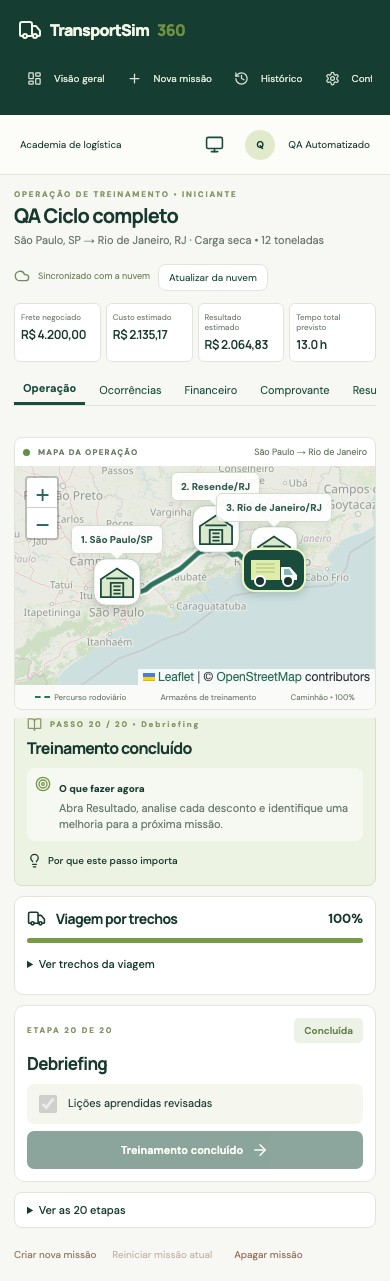
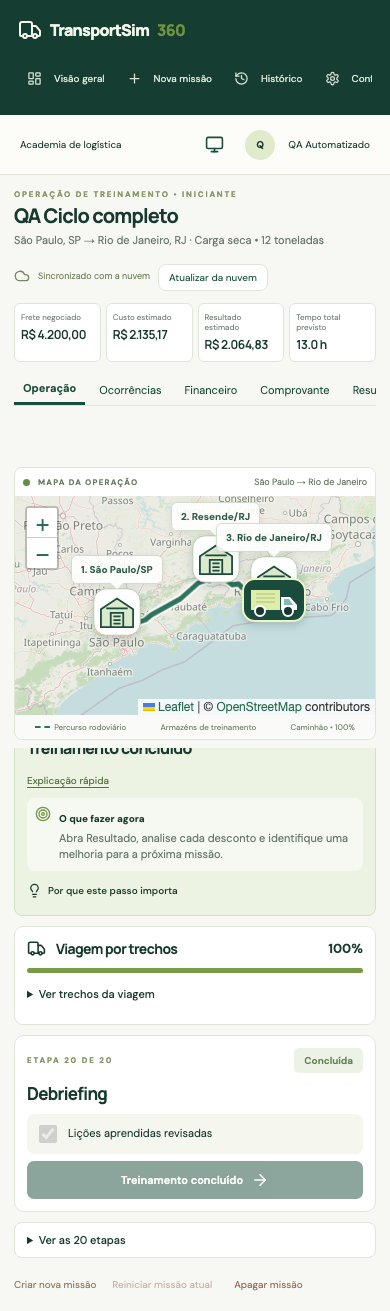
feat: show brief auto dismissing explanations for operation stages

diff --git a/src/pages/workspace/Operation.tsx b/src/pages/workspace/Operation.tsx
@@ -1,3 +1,7 @@
+import {
+  StageNotice,
+  type StageNoticeData,
+} from "../../components/StageNotice";
 import { missionProgress } from "../../domain/mission";
 import { RoutePlanner } from "../../components/RoutePlanner";
 import { StageGuide } from "../../components/StageGuide";
@@ -9,7 +13,7 @@ import {
   Cloud,
   Download,
 } from "lucide-react";
-import { useState, useEffect, useRef } from "react";
+import { useState, useEffect, useRef, useCallback } from "react";
 import {
   Link,
   useLocation,
@@ -45,6 +49,8 @@ export function Operation() {
   const { mission, busy, sync, pending, load, save, clearDraft } =
     useMissionSync(user?.uid, id, setMessage);
   const [showPlanner, setShowPlanner] = useState(false);
+  const [notice, setNotice] = useState<StageNoticeData | null>(null);
+  const closeNotice = useCallback(() => setNotice(null), []);
   const [lastCompleted, setLastCompleted] = useState("");
   const controlColumn = useRef<HTMLElement>(null);
   useEffect(() => {
@@ -67,8 +73,16 @@ export function Operation() {
   const result = score(m);
   function transition() {
     try {
-      void save(advance(m)).then((success) => {
-        if (success) setLastCompleted(stages[m.step]);
+      const next = advance(m);
+      void save(next).then((success) => {
+        if (success) {
+          setLastCompleted(stages[m.step]);
+          setNotice({
+            id: Date.now(),
+            step: next.step,
+            completed: next.completed,
+          });
+        }
       });
     } catch (e) {
       setMessage(errorMessage(e));
@@ -93,6 +107,7 @@ export function Operation() {
   }
   return (
     <div className="operation-page">
+      <StageNotice notice={notice} onClose={closeNotice} />
       <div className="page-heading">
         <div>
           <span className="eyebrow">
@@ -202,6 +217,13 @@ export function Operation() {
               step={m.step}
               completed={m.completed}
               lastCompleted={lastCompleted}
+              onExplain={() =>
+                setNotice({
+                  id: Date.now(),
+                  step: m.step,
+                  completed: m.completed,
+                })
+              }
             />
             <JourneyControls
               mission={m}

diff --git a/src/styles/global.css b/src/styles/global.css
@@ -2035,3 +2035,96 @@ summary {
     height: clamp(170px, 26dvh, 230px);
   }
 }
+.stage-notice {
+  position: fixed;
+  top: 14px;
+  left: 50%;
+  transform: translateX(-50%);
+  z-index: 2000;
+  display: flex;
+  align-items: flex-start;
+  gap: 11px;
+  width: min(430px, calc(100vw - 28px));
+  padding: 14px 15px 17px;
+  background: #f6faed;
+  border: 1px solid #afc98a;
+  border-radius: 10px;
+  box-shadow: 0 10px 35px #18392f26;
+  color: #194c3c;
+  overflow: hidden;
+  animation: notice-in 0.18s ease-out;
+}
+.stage-notice > svg {
+  flex-shrink: 0;
+  margin-top: 1px;
+}
+.stage-notice > div {
+  min-width: 0;
+  flex: 1;
+}
+.stage-notice strong {
+  font-size: 13px;
+}
+.stage-notice p {
+  font-size: 12px;
+  line-height: 1.5;
+  margin: 5px 0 0;
+  color: #4b6553;
+}
+.stage-notice > button {
+  display: flex;
+  flex-shrink: 0;
+  padding: 3px;
+  border: 0;
+  background: transparent;
+}
+.stage-notice-timer {
+  position: absolute;
+  bottom: 0;
+  left: 0;
+  height: 3px;
+  background: #8bad58;
+  width: 100%;
+  transform-origin: left;
+  animation: notice-timer 5s linear forwards;
+}
+.stage-explain-button {
+  padding: 4px 0;
+  border: 0;
+  background: transparent;
+  font-size: 10px;
+  text-decoration: underline;
+  text-underline-offset: 3px;
+  margin: 0 0 7px;
+  color: #54733f;
+}
+.stage-explain-button:hover {
+  color: #194c3c;
+}
+@keyframes notice-timer {
+  to {
+    transform: scaleX(0);
+  }
+}
+@keyframes notice-in {
+  from {
+    opacity: 0;
+    transform: translate(-50%, -8px);
+  }
+  to {
+    opacity: 1;
+    transform: translate(-50%, 0);
+  }
+}
+@media (prefers-reduced-motion: reduce) {
+  .stage-notice,
+  .stage-notice-timer {
+    animation: none;
+  }
+}
+@media print {
+  .stage-notice,
+  .stage-explain-button {
+    display: none;
+  }
+}

diff --git a/src/components/StageNotice.tsx b/src/components/StageNotice.tsx
@@ -1,0 +1,51 @@
+import { useEffect } from "react";
+import { Info, X } from "lucide-react";
+import { stages } from "../domain/mission";
+import { stageGuidance } from "../domain/stageGuidance";
+export interface StageNoticeData {
+  id: number;
+  step: number;
+  completed: boolean;
+}
+export function StageNotice({
+  notice,
+  onClose,
+}: {
+  notice: StageNoticeData | null;
+  onClose: () => void;
+}) {
+  useEffect(() => {
+    if (!notice) return;
+    const timer = window.setTimeout(onClose, 5000);
+    return () => window.clearTimeout(timer);
+  }, [notice, onClose]);
+  if (!notice) return null;
+  return (
+    <div
+      className="stage-notice"
+      role="status"
+      aria-live="polite"
+      aria-atomic="true"
+    >
+      <Info size={21} />
+      <div>
+        <strong>
+          {notice.completed ? "Treinamento concluído" : stages[notice.step]}
+        </strong>
+        <p>
+          {notice.completed
+            ? "Seu resultado foi salvo. Consulte o relatório para revisar as decisões e os aprendizados."
+            : stageGuidance[notice.step][1]}
+        </p>
+      </div>
+      <button
+        type="button"
+        aria-label="Fechar explicação da etapa"
+        onClick={onClose}
+      >
+        <X size={17} />
+      </button>
+      <span className="stage-notice-timer" key={notice.id} />
+    </div>
+  );
+}

diff --git a/src/components/StageGuide.tsx b/src/components/StageGuide.tsx
@@ -5,10 +5,12 @@ export function StageGuide({
   step,
   completed,
   lastCompleted,
+  onExplain,
 }: {
   step: number;
   completed: boolean;
   lastCompleted: string;
+  onExplain: () => void;
 }) {
   const [title, action, impact] = stageGuidance[step];
   return (
@@ -23,6 +25,13 @@ export function StageGuide({
         <BookOpen size={15} /> PASSO {step + 1} / 20 • {stages[step]}
       </span>
       <h2>{completed ? "Treinamento concluído" : title}</h2>
+      <button
+        type="button"
+        className="stage-explain-button"
+        onClick={onExplain}
+      >
+        Explicação rápida
+      </button>
       <div className="guide-cards">
         <article>
           <Target size={20} />

diff --git a/docs/DESIGN_SYSTEM.md b/docs/DESIGN_SYSTEM.md
@@ -5,3 +5,5 @@ Paleta: verde floresta #194c3c, verde claro #daeea5, fundo #f7f8f3. Tipografia M
 Layout responsivo em 1100/800/550 px, formulários de três a uma coluna, navegação móvel horizontal. Foco visível, labels nos campos e botões com estados de carregamento. Modo apresentação oculta navegação e amplia números. Impressão do POD remove controles. Fontes externas são opcionais; o fallback mantém o conteúdo legível.
 
 Painel operacional compacto: indicadores menores, mapa em coluna fixa e controles em coluna lateral com rolagem própria no desktop. Explicação complementar, trechos e timeline ficam recolhidos por padrão. No celular, mapa sticky no topo enquanto os controles rolam. Orientação e checklist continuam disponíveis. Ao mudar de etapa, a coluna de controles retorna ao início.
+
+Explicação transitória de etapa: aviso informativo discreto no topo, sem modal ou bloqueio. Aparece após avanço salvo e desaparece após 5 segundos. O botão Explicação rápida reabre a informação; X fecha imediatamente. Timer substituído a cada aviso, aria-live polite e animação respeitando preferência por movimento reduzido. Estado apenas de interface, sem gravações adicionais.

diff --git a/docs/TEST_PLAN.md b/docs/TEST_PLAN.md
@@ -33,3 +33,5 @@ Teste Chrome com APIs reais e Firebase aprovado: seleção de RJ/Resende via IBG
 Fluxo completo Chrome/Firebase real aprovado após a revisão: movimento gradual nas quatro etapas, vinte checklists, inspeção antes da continuação, resultado/histórico e perfil sem Firebase/Authentication/UID. Conta e dados sintéticos removidos. Capturas em docs/qa/travel-stage-9.png e travel-stage-12.png.
 
 Layout compacto validado em Chrome 1366×768 e 390×844: fluxo completo e checagens geométricas confirmaram que o canvas do mapa permanece dentro da viewport ao avançar a viagem no desktop e ao rolar até o checklist no celular. Build TypeScript/Vite aprovado. Não houve mudança de cálculos ou regras de negócio. Conta e documentos temporários removidos.
+
+Explicação temporária validada no Chrome: aparece após cada avanço salvo, desaparece automaticamente (checagem com timeout de 7 segundos para timer de 5), reabre por Explicação rápida e fecha pelo X. Fluxo completo, perfil, mapa visível e limpeza dos dados de QA aprovados. Build TypeScript/Vite aprovado.

diff --git a/docs/DEPLOY_VERCEL.md b/docs/DEPLOY_VERCEL.md
@@ -27,3 +27,5 @@ Toolbar removida no projeto por API oficial Vercel: enablePreviewFeedback=false 
 Revisão de movimento por etapas e perfil publicada READY em 15/10/2026: https://geevheitacademy-iaewjw3jl-geevheits-projects.vercel.app . Deployment dpl_J6QKPd8P8pm215PhjW3zr6FAeKn1. Toolbar desligada no projeto para preview/produção. Build remoto aprovado.
 
 Layout operacional compacto publicado READY em 15/10/2026: https://geevheitacademy-21ulx82ax-geevheits-projects.vercel.app . Deployment dpl_9KXCq7RHx33Ewg1Cqj9tdnQDBt1u. Build remoto aprovado.
+
+Explicações transitórias de etapa publicadas READY: https://geevheitacademy-ddlgt6puh-geevheits-projects.vercel.app . Deployment dpl_13wXcNdJphF2pfnfWPyGZ6uKRKX3. Build remoto aprovado e comportamento validado no Chrome local.

diff --git a/README.md b/README.md
@@ -18,6 +18,6 @@ PRD, TASKS, ARCHITECTURE, DESIGN_SYSTEM, BUSINESS_RULES, FIREBASE_SETUP, FIRESTO
 
 Documentos, valores e rotas são demonstrativos. Não há rastreamento real ou emissão fiscal. Regras educativas de jornada não certificam conformidade legal.
 
-Preview final: https://geevheitacademy-21ulx82ax-geevheits-projects.vercel.app
+Preview final: https://geevheitacademy-ddlgt6puh-geevheits-projects.vercel.app
 
 Mapas e trechos: consulte docs/MAPS_AND_ROUTES.md. Origem/destino e pontos intermediários são configuráveis; caminhão percorre os trechos na etapa Transporte, com cards explicativos em cada passo.
